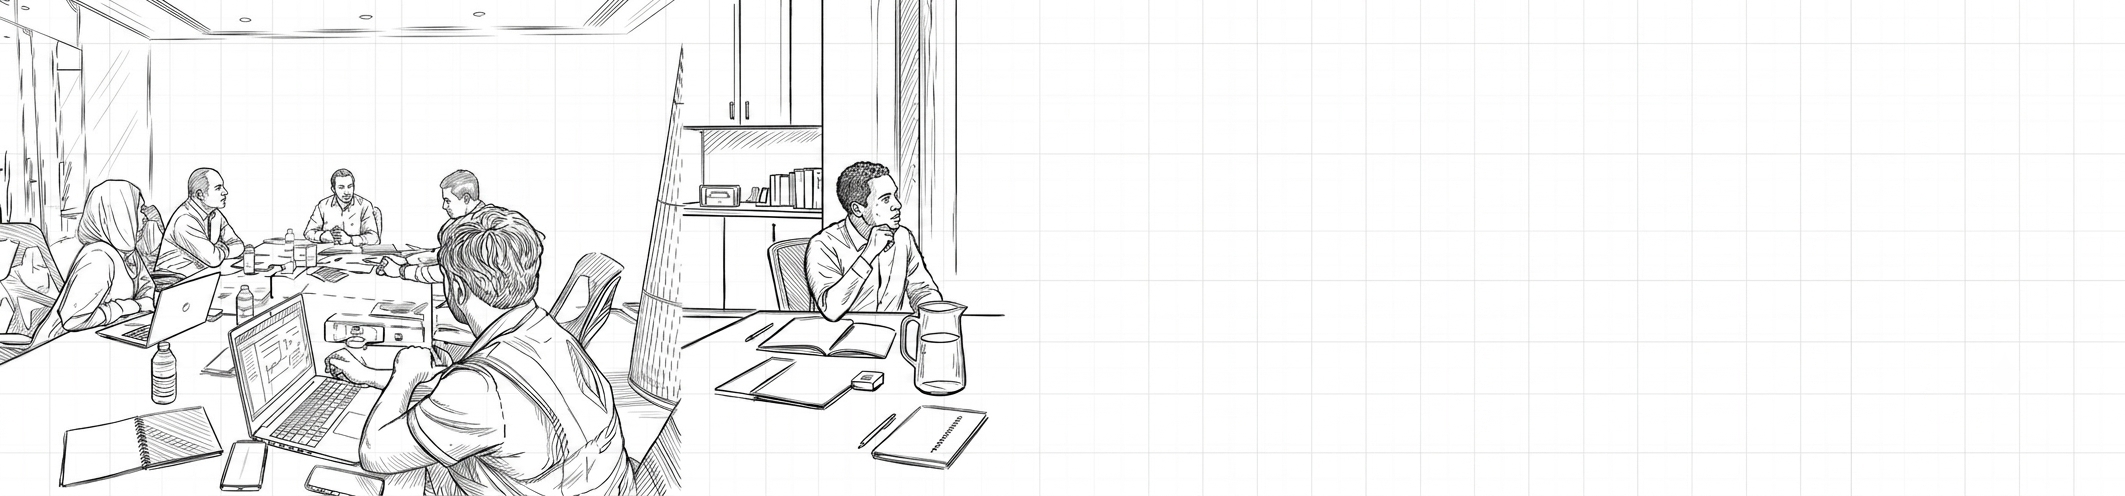
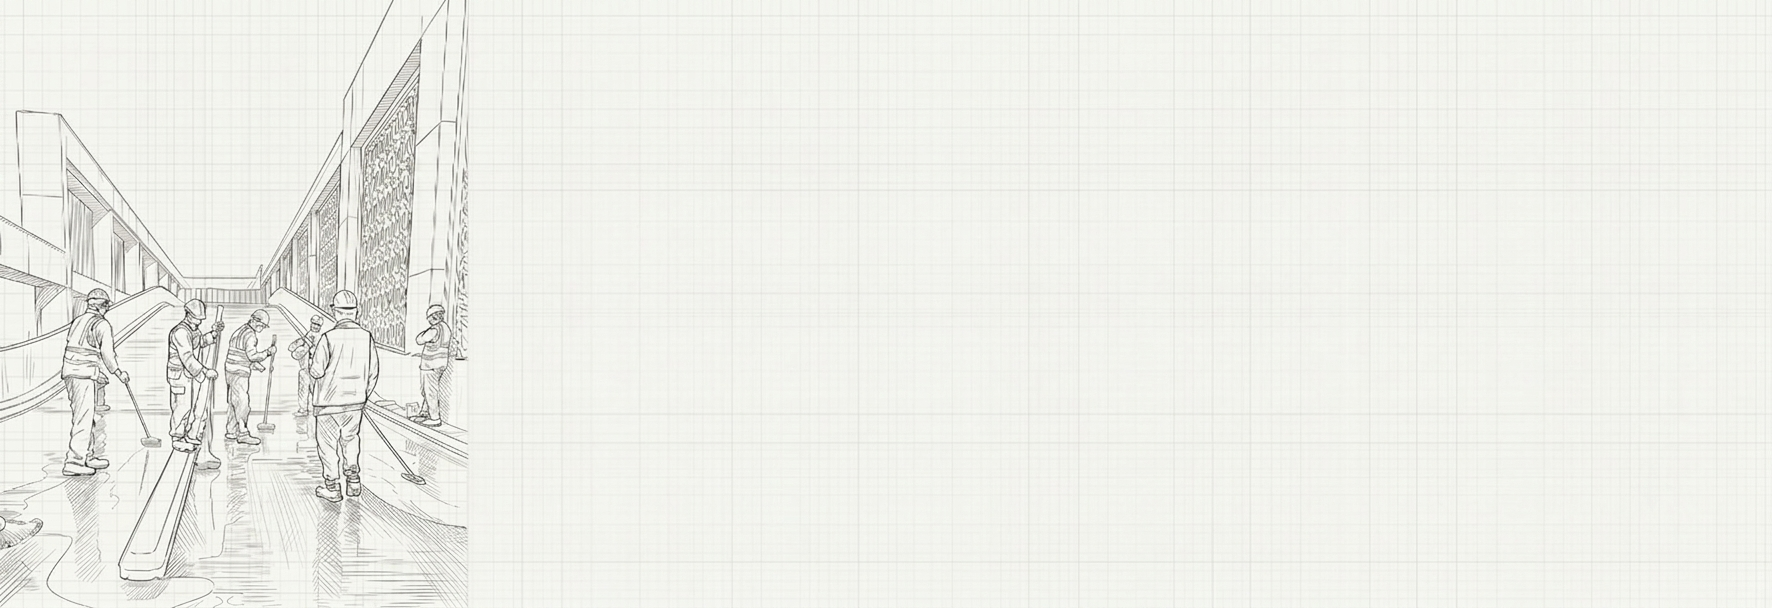
Fixed Cinqo-trading image and text.

diff --git a/components/sections/Businesses/Intro.tsx b/components/sections/Businesses/Intro.tsx
@@ -22,20 +22,20 @@ export default function Intro({ business }: { business: BusinessData }) {
             src={business.introBgImage}
             alt=""
             fill
-            className="object-cover brightness-100 saturate-[0.5] contrast-[0.85]"
+            className="object-cover object-left brightness-100 saturate-[0.5] contrast-[0.85]"
             sizes="100vw"
           />
           <div className="absolute inset-0 bg-white/75" />
         </div>
         <div className="relative z-10 max-w-[1440px] mx-auto px-6 md:px-12">
           {business.introHeading && (
-            <h2 className="text-lg md:text-xl lg:text-2xl font-semibold text-black mb-6 uppercase whitespace-pre-line translate-y-6 translate-x-1">
+            <h2 className={`text-lg md:text-xl lg:text-2xl font-semibold text-black mb-6 uppercase whitespace-pre-line ${business.slug === "cinqo-trading" ? "translate-y-10 translate-x-4" : "translate-y-6 translate-x-1"}`}>
               {business.introHeading}
             </h2>
           )}
           {/* Text */}
           <div className="flex items-start justify-end">
-            <p className={`text-[1.375rem] text-black/80 leading-relaxed font-light max-w-2xl whitespace-pre-line -translate-y-16 ${business.slug === "thc-facilities-management" || business.slug === "cinqo-fitout" ? "-translate-x-4" : "-translate-x-8"}`}>
+            <p className={`text-[1.375rem] text-black/80 leading-relaxed font-light max-w-2xl whitespace-pre-line -translate-y-16 ${business.slug === "thc-facilities-management" || business.slug === "cinqo-fitout" ? "-translate-x-4" : business.slug === "cinqo-trading" ? "translate-x-0" : "-translate-x-8"}`}>
               {business.introText}
             </p>
           </div>

diff --git a/data/businesses.data.ts b/data/businesses.data.ts
@@ -209,7 +209,7 @@ export const businesses: BusinessData[] = [
     heroImage: "/images/companies/h1.jpg",
     introBgImage: "/images/companies/ci4.png",
     introHeading: "STRUCTURED\nDISTRIBUTION",
-    introText: "Cinqo Trading serves as the commercial and technical bridge between leading international manufacturers and the GCC market.\n\nThrough exclusive and authorised partnerships with globally recognised brands, the division supplies paints, construction chemicals, building materials, acoustic systems and infrastructure technologies across Bahrain.\n\nBeyond distribution, Cinqo Trading supports specification development, technical evaluation, project execution and after-sales support, helping clients select and implement solutions with confidence.",
+    introText: "Cinqo Trading serves as the commercial and technical bridge between leading international manufacturers and the GCC market.\nThrough exclusive and authorised partnerships with globally recognised brands, the division supplies paints, construction chemicals, building materials, acoustic systems and infrastructure technologies across Bahrain.\n\nBeyond distribution, Cinqo Trading supports specification development, technical evaluation, project execution and after-sales support, helping clients select and implement solutions with confidence.",
     definesUs: [],
     capabilities: [],
     sectors: []
@@ -229,7 +229,7 @@ export const businesses: BusinessData[] = [
     slug: "cinqo-flooring-coating-technologies",
     name: "CINQO FLOORING & COATING TECHNOLOGIES",
     heroImage: "/images/companies/c5.png",
-    introBgImage: "/images/companies/ci4.png",
+    introBgImage: "/images/companies/ci5.png",
     introHeading: "ENGINEERED\nFOR ENDURANCE",
     introText: "Cinqo Flooring & Coating Technologies delivers high-performance flooring, waterproofing and protective coating systems for environments where durability, hygiene and long-term performance are critical.\n\nThe company serves logistics facilities, healthcare and pharmaceutical environments, food production sites, car parks and industrial installations through technically engineered solutions and manufacturer-approved systems.",
     definesUs: [],